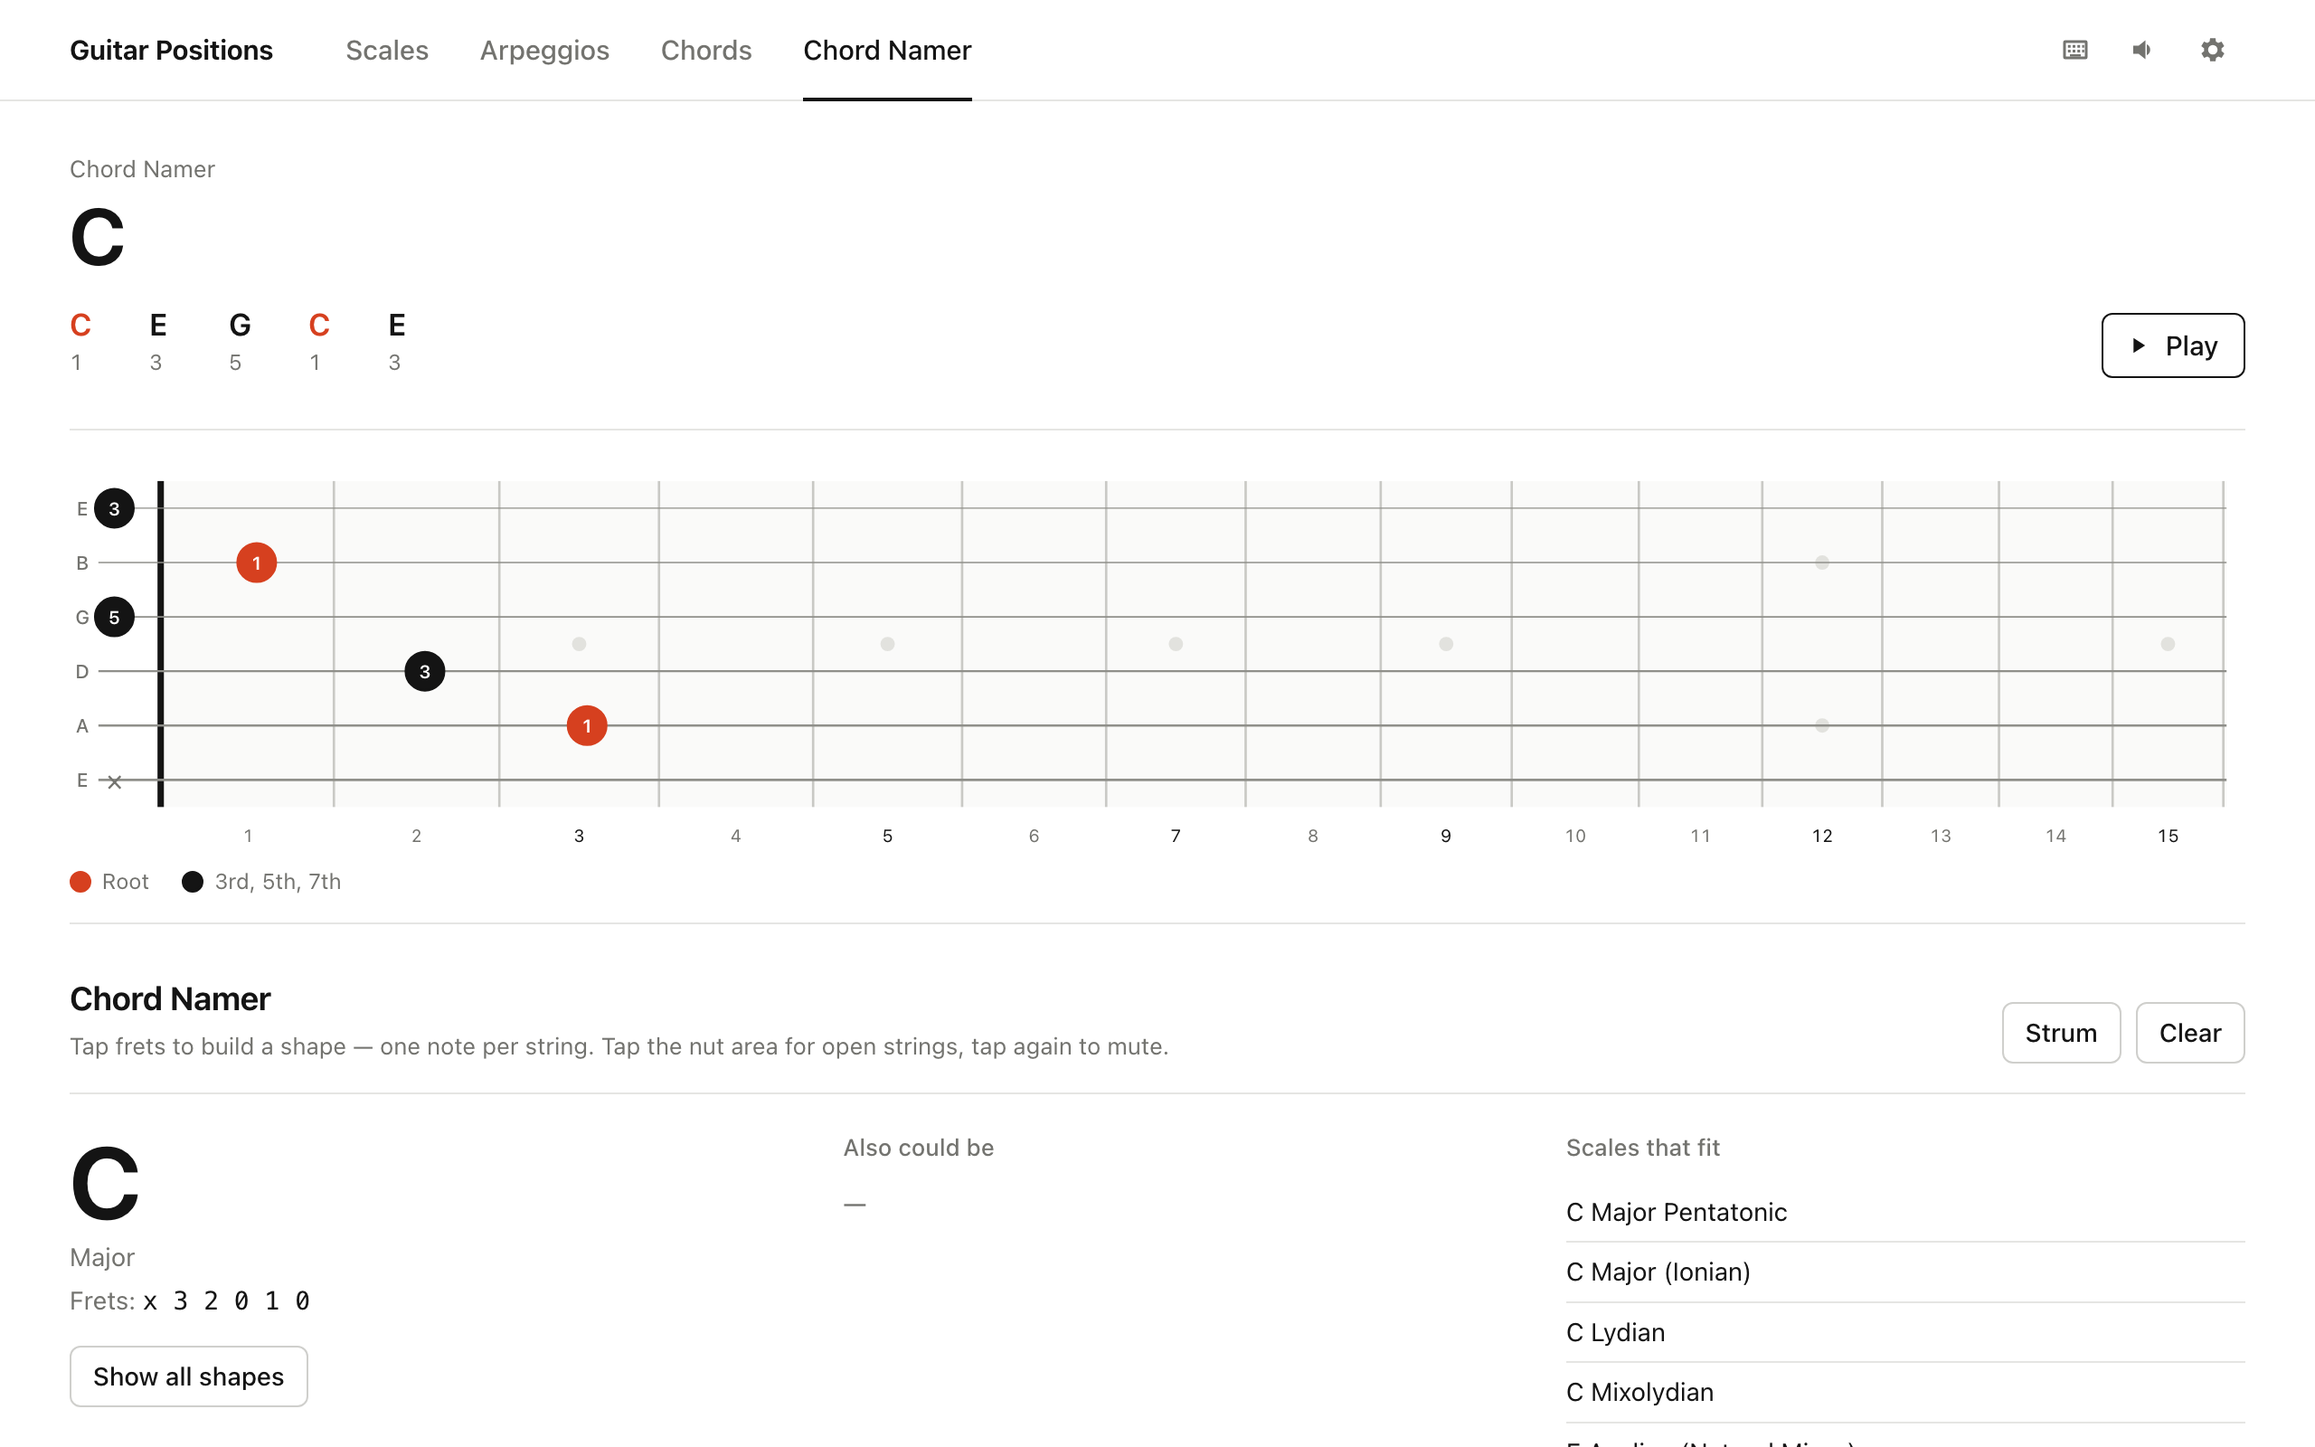
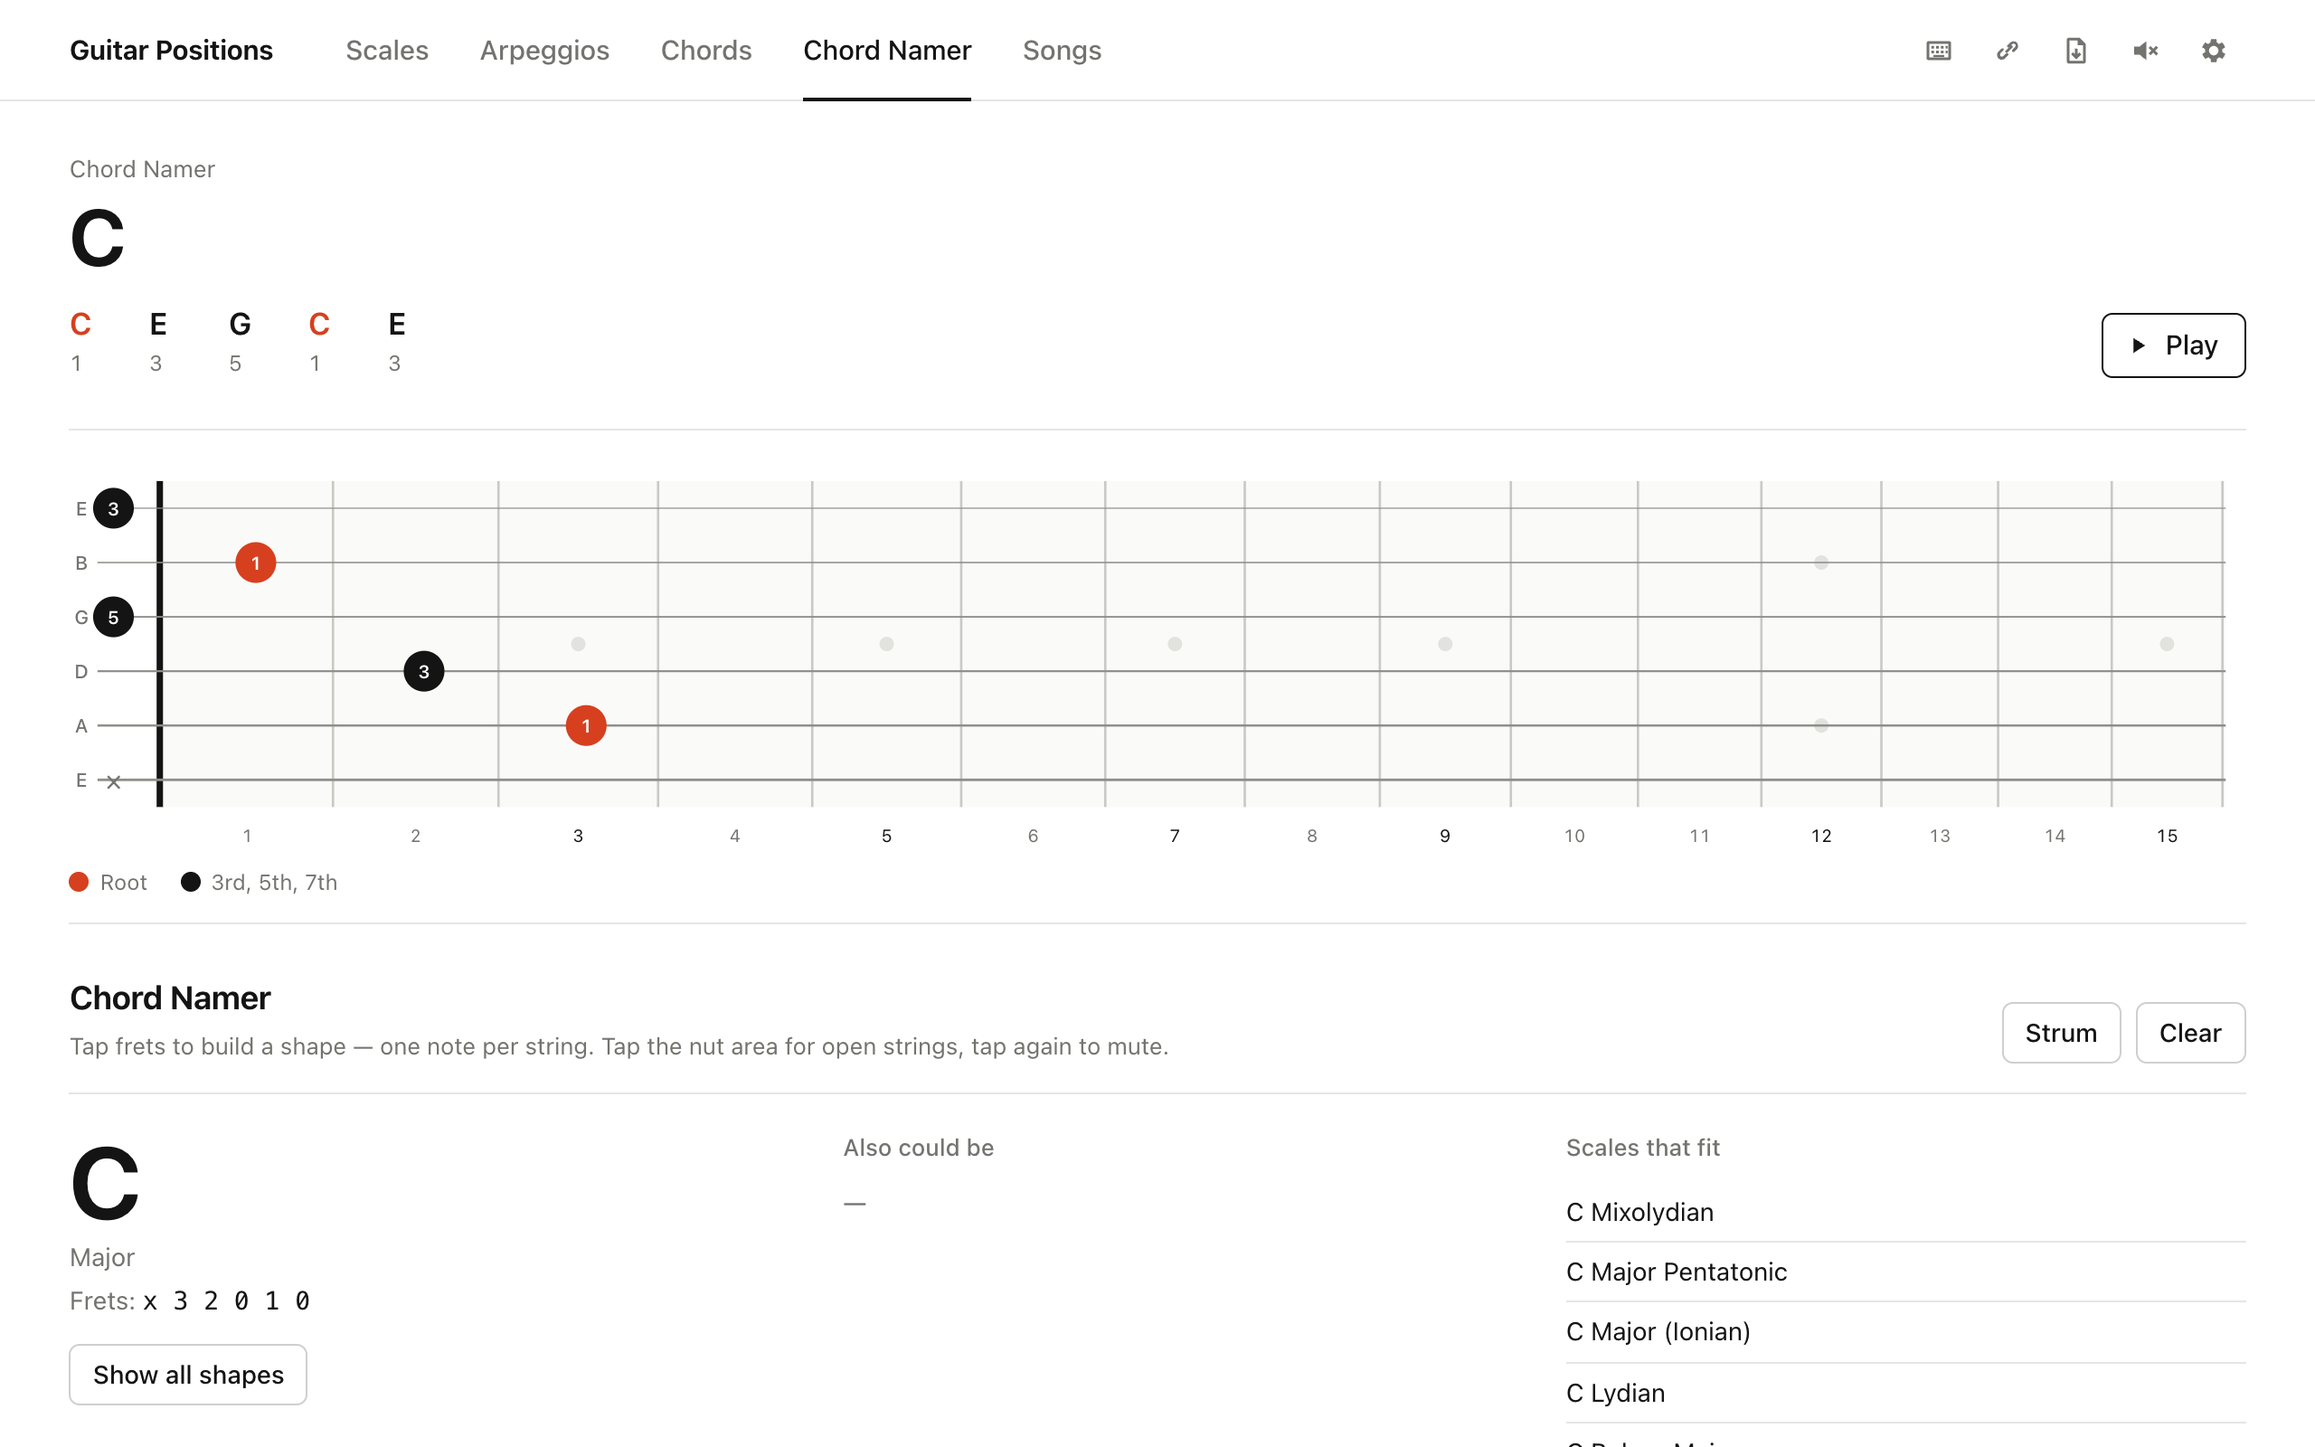
Mark test session 2026-10-20 feedback done, refresh README and screenshots
README lists the chord-scale theory, songs, share links and PDF export and
shows a new Songs screenshot; the other screenshots are retaken with the
current Studio.

diff --git a/docs/feedback/2026-10-20-testsession.md b/docs/feedback/2026-10-20-testsession.md
@@ -1,0 +1,70 @@
+# Guitar Positions Studio – Test Session 2026-10-20
+
+- Baseline: master `36fadbf` (web), native apps on branch `claude/festive-payne-53db8c` (`caa7e26`)
+- Platforms under test: not specified per entry (shared Studio code: Web, Mac app, iPad/iOS, Android)
+- Scope: observations only during the session; implemented afterwards on master (`14ad08d`…`8e1fdac`).
+
+## Entries
+
+<!-- New entries are appended below. Format: #ID · Title / Status / Area / Type · Priority / Platform / Observation / Expected / Steps / Suspected location / Open -->
+
+### #1 · "Chords in this scale" lists too many chords – follow Graf/Nettles chord-scale theory
+- Status: done (83dee77)
+- Area: Scales (scale → chords panel, from #7 of 2026-10-19)
+- Type: Wunsch (refinement) · Priority: mittel
+- Platform: not specified (assumed all – shared Studio code)
+- Observation: The chord list in the Scale view is partly overloaded; too many chords are shown.
+- Expected: Recommendations follow the chord-scale theory of Richard Graf (Nettles/Graf, "The Chord Scale Theory & Jazz Harmony"): per scale only the chords it is the chord scale for (e.g. Dorian → m7/m6, Lydian → maj7(#11), Mixolydian → 7, Altered → 7alt), with available tensions instead of every chord that happens to be a pitch subset; diatonic triads/sevenths of the parent scale stay where they make sense.
+- Steps: Scale mode → pick any heptatonic scale (e.g. C Major or Dorian) → "Chords in this scale" → expand "All fitting chords".
+- Suspected location: `static/studio/js/theory.js:946` `chordsForScale()` – `others` is every library chord with ≥3 notes on every scale degree whose pitch set is a subset of the scale (no avoid-note / chord-function filter); rendered in `static/studio/js/app.js:430` `renderScaleChords()` as "Diatonic sevenths", "Diatonic triads" and the collapsible "All fitting chords (n)". A scale → primary chord(s) + available tensions / avoid notes mapping would need to live in `theory.js` next to `SCALE_LIBRARY` (`theory.js:88`) / `MESSIAEN_MODES` (`theory.js:114`); `scalesForChord()` (`theory.js:932`) could use the same mapping for the reverse direction.
+- Open: Drop "All fitting chords" entirely or keep it collapsed but reduced? Should avoid notes (b9 rule, e.g. 4 over Ionian, b13 over Phrygian) exclude chords containing them (e.g. maj7 add11 on Ionian)? How to handle scales outside Graf's catalogue (bebop, Messiaen, exotic)? Should the reverse direction (chord → scales, search/Chord Namer) also be limited to Graf's recommendations?
+- Decision (2026-10-20): Replace "All fitting chords" with the Graf/Nettles recommendations (diatonic rows stay, plus the chord(s) the scale is the chord scale for, with available tensions). Apply the same mapping in both directions (scale → chords and chord → scales in search/Chord Namer).
+
+### #2 · Position 1 should always be the lowest position on the neck (around fret 1)
+- Status: done (14ad08d)
+- Area: Scales/Arpeggios (positions bar, numbering)
+- Type: Bug (numbering inconsistent after transposition) · Priority: hoch
+- Platform: not specified (assumed all – shared Studio code)
+- Observation: Position numbering follows the root, so after transposing, position 1 can start at the 7th fret while position 5 sits at the 1st fret.
+- Expected: Position 1 is always the first playable position near the nut (around fret 1), positions 2, 3, … follow ascending up the neck, independent of the root.
+- Steps: Scale (or Arpeggio) mode → root e.g. B or A (root on low E at fret 7/5) → positions bar: "1" shows fr 7–…, a later number shows fr 0/1–….
+- Suspected location: `static/studio/js/theory.js:476` `scalePositions()` – start frets are `rootFret + interval` per scale degree, wrapped down by 12 only when ≥ `maxStart` (12); positions are pushed in degree order and numbered at `theory.js:523-524` ("Conventional numbering: position 1 starts on the root …"), never sorted by fret. Fix: sort by `minFret` (start fret) before assigning `index`. Labels in `static/studio/js/app.js:335` `renderPositions()` ("fr min–max") need no change.
+- Side effects to check: `state.position` is persisted in the URL (`pos`, `app.js:73/98`) and in legacy state (`app.js:59`), number-key shortcuts (`app.js:831`) and arrow stepping (`app.js:847`) – existing links/bookmarks would point to a different position after the change. 3-notes-per-string positions may be moved up an octave (`theory.js:492`), which affects sorting. Tests for `scalePositions` in `static/studio/js/theory.test.mjs` probably assert the root-based order.
+- Open: What does "Bei Position All Past" refer to – the positions bar in general, or the "All (whole neck)" button? Should a position starting on open strings (fret 0) count as position 1? Keep the root-based numbering as an option (e.g. CAGED-style teaching) or replace it entirely? Same rule for box and 3-notes-per-string?
+- Decision (2026-10-20): Position 1 = lowest position on the neck, open strings (fret 0) included, then ascending; same rule for box and 3-notes-per-string. No toggle for root-based numbering.
+
+### #3 · Share fingerings/positions with students via link
+- Status: done (2537cc1)
+- Area: Sharing (all modes)
+- Type: Wunsch · Priority: mittel
+- Platform: Web (explicitly "in der Web-Applikation"); native apps could open the same links later
+- Observation: There is no clear way to share a specific fingering, position etc. with students.
+- Expected: A visible "Share"/"Copy link" action that produces a link reproducing exactly what the teacher sees (mode, root, type, position, system, selected voicing …) under https://fretboard.schoensgibl.com/.
+- Steps: Pick e.g. Scale → A Dorian → Position 3 → want to send this to a student.
+- Suspected location: `static/studio/js/app.js:85` `writeUrl()` already mirrors part of the state into the query string via `history.replaceState` (`mode`, `root`, `type`, `src`, `vs`, `strings`, `pos`, `sys`, `shape`), parsed in `readUrl` (`app.js:61-77`). Not in the URL: selected chord voicing (`state.selected`, `app.js:200`), tuning (`state.tuning`), labels (intervals/notes), neck filter (`state.neck`), bass filter. No share/copy button exists (no `navigator.share`/clipboard code in `app.js` or `templates/studio/index.html`). A selected-voicing parameter would need a stable id (index into a filtered list breaks when filters/library change).
+- Open: Is copying the current URL enough, or should the link be a short/clean link? Should a shared link open in a reduced "student view" (no editing UI)? Should it pin the exact voicing frets (e.g. `shape=`-style) so it survives later library changes? Relates to #2 (position numbering change would alter what old `pos=` links show).
+- Decision (2026-10-20): Full-state link – "Copy link" button (native share sheet on mobile); the link restores the exact view incl. selected voicing (stored as frets), tuning and labels; students see the normal app.
+
+### #4 · Print/PDF export: A4, minimalist black and white
+- Status: done (7805277)
+- Area: Export/Print (scales, arpeggios, chords)
+- Type: Wunsch · Priority: mittel
+- Platform: Web (Mac/iPad would get it via the shared bundle; native print path to check)
+- Observation: Fingerings covered in lessons cannot be produced as a printable sheet.
+- Expected: A PDF/print output that fits exactly one A4 page, minimalist black and white (no colour fills, no UI chrome, good contrast for photocopies), containing the current diagram(s) plus title (root, type, position/voicing).
+- Steps: Pick a scale position or chord voicing(s) → "Print / PDF" → A4 page.
+- Suspected location: no print support yet – `static/studio/studio.css` has only `prefers-color-scheme`, width and reduced-motion media queries (lines 49, 325, 333, 349), no `@media print` / `@page { size: A4 }`. Simplest route: print stylesheet + `window.print()` (browser "Save as PDF") rendering the SVG fretboard (`static/studio/js/fretboard.js`) and chord boxes (`static/studio/js/diagram.js`) in a monochrome theme; a generated PDF (client-side library or server side) is heavier. Dark-mode tokens must not leak into print.
+- Open: One diagram per sheet, or a sheet collecting several items (e.g. all positions of a scale, a lesson set)? Should it include fingers/interval labels, a header (date, title) or a free-text note? Is "Save as PDF" from the print dialog acceptable, or a direct PDF download button? Does the Mac/iPad app need its own print path (WKWebView print)?
+- Decision (2026-10-20): Content = current view (scale/arpeggio: all positions + whole neck; chord: visible voicings as a grid), fitted to one A4 page, black and white, with title and fingers/intervals. Direct PDF download, generated by an own small vector PDF writer (lines, dots, built-in Helvetica) – no external library.
+
+### #5 · Songs/exercises: own chord progressions with Ted Greene-style chord grids
+- Status: done (8e1fdac)
+- Area: New feature (chord progressions / song sheets)
+- Type: Wunsch ("vielleicht auch gut") · Priority: niedrig
+- Platform: Web (primary); native via shared bundle
+- Observation: Teachers want to assemble chord progressions for songs and exercises to go through with students (e.g. "Song XY" → sequence of chords).
+- Expected: Create a named song/exercise, add chords (root + type + chosen voicing) in order, optionally share (#3) and print (#4). Chord grids in the classic Ted Greene style: horizontal (strings running horizontally), at most 7 frets per grid.
+- Steps: (new) Songs → "New song" → name → add chords → view/print.
+- Suspected location: no progression/song concept in the code yet. Chord voicings come from `findChordShapes`/`voicingTemplateShapes` (`static/studio/js/theory.js`, imported in `static/studio/js/app.js:4`). Current chord boxes in `static/studio/js/diagram.js:3` `chordDiagram()` are vertical (strings vertical, frets as rows, min 4 rows, no upper limit) – a horizontal, max-7-fret variant would be a new renderer option. Persistence options: URL-encoded (fits #3, no server storage), `localStorage` via the existing `store` helper (`app.js:14`), or a Django model (would need accounts → personal data, data-protection review).
+- Open: "Tate Green System" read as Ted Greene's chord-grid style – confirm. Horizontal with low E at the bottom or at the top? Should voicings wider than 7 frets be excluded or split? Should songs carry lyrics/sections/bars/rhythm or just a chord list? Where to store songs (link-only/local vs. server with accounts – the latter needs a GDPR assessment since students would be involved)? Should the Ted Greene grid also be offered in the normal Chord view?
+- Decision (2026-10-20): Stored locally in the browser (existing `store` helper) and shareable/printable as a link (song encoded in the URL); no accounts, no server storage. Content: title, optional note, ordered chords (root, type, chosen voicing), optional section dividers (Verse/Chorus). Ted Greene grid: horizontal, high E on top, low E at the bottom, nut on the left, 7 frets by default; wider voicings allowed, grid widens. Grid used in songs and PDF only; the Chord view keeps its vertical boxes.

diff --git a/README.md b/README.md
@@ -11,15 +11,19 @@ Free, no account needed. Installable as a PWA; native apps for iOS, iPad, macOS 
 | ![Scales view: A minor pentatonic with position 1, fingering and fitting chords](docs/screenshots/scales.png) | ![Chords view: Cmaj7 shapes](docs/screenshots/chords.png) |
 | **V-System voicings** | **Chord Namer** |
 | ![V-System voicings for Cmaj7](docs/screenshots/v-system.png) | ![Chord Namer recognising an open C chord](docs/screenshots/chord-namer.png) |
+| **Songs & exercises** | |
+| ![Songs view: a chord progression in Ted Greene style grids](docs/screenshots/songs.png) | |
 
 ## Features
 
-- **Scales**: modes of major, pentatonic and blues, melodic and harmonic minor families, symmetric scales (whole tone, diminished, Messiaen modes 1–7) and **Bebop** scales. Every scale has numbered positions with fingerings, as boxes or three notes per string.
+- **Scales**: modes of major, pentatonic and blues, melodic and harmonic minor families, symmetric scales (whole tone, diminished, Messiaen modes 1–7) and **Bebop** scales. Every scale has numbered positions with fingerings, as boxes or three notes per string; position 1 is always the lowest one on the neck, in every key.
 - **Arpeggios** for every chord type.
 - **Chords**: playable shapes ranked by ease, filterable by bass note (inversion) and neck region, plus Ted Greene style **V-System voicings** (V1–V14) for all chord types.
 - **Search**: type a chord symbol such as `Em7`, `F#m7b5` or `Maj7#11` and get the chord, its V-System voicings, the arpeggio and fitting scales (Em7 → Dorian, Phrygian, Aeolian on E).
-- **Chords in this scale**: diatonic triads and sevenths plus every chord that fits the scale; one click opens its shapes.
+- **Chord-scale theory** after Nettles/Graf: each scale lists the chords it is the chord scale for, with available tensions and avoid notes, plus the diatonic triads and sevenths; search and the Chord Namer suggest scales for a chord the same way. One click opens the shapes.
 - **Chord Namer**: tap a shape on the fretboard and get the chord name, alternatives and scales that fit.
+- **Songs & exercises**: collect chord progressions for lessons (title, note, sections, chosen voicings) in horizontal Ted Greene style grids. Saved in the browser only, no account.
+- **Share & print**: every view, including the chosen voicing and songs, can be shared as a link; a PDF button creates a minimalist black-and-white A4 sheet (scale positions, chord shapes or a song).
 - **Instruments**: standard tuning, half step down, Drop D, DADGAD, open G/D, 7- and 8-string guitars, left-handed view, horizontal or vertical neck.
 - **Sound**: play scales and strum chords; keyboard shortcuts for everything (press `?`).
 - **Light and dark theme**, mobile friendly, works offline once installed.
